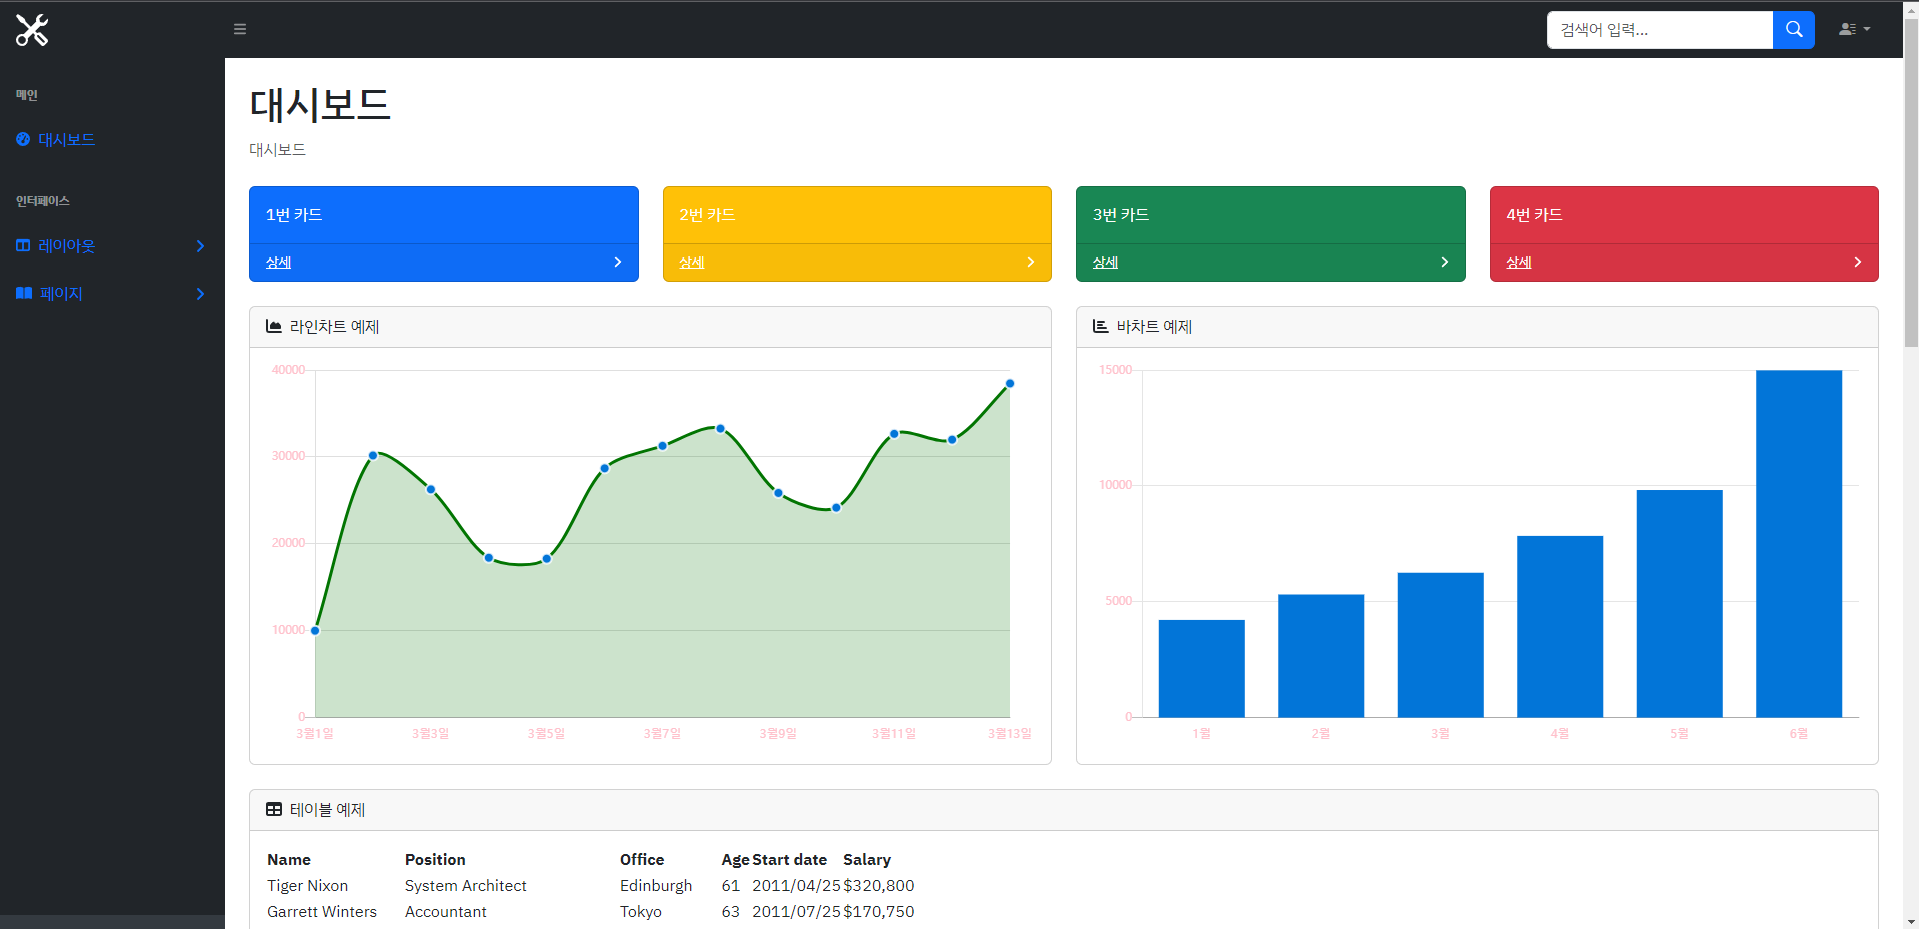
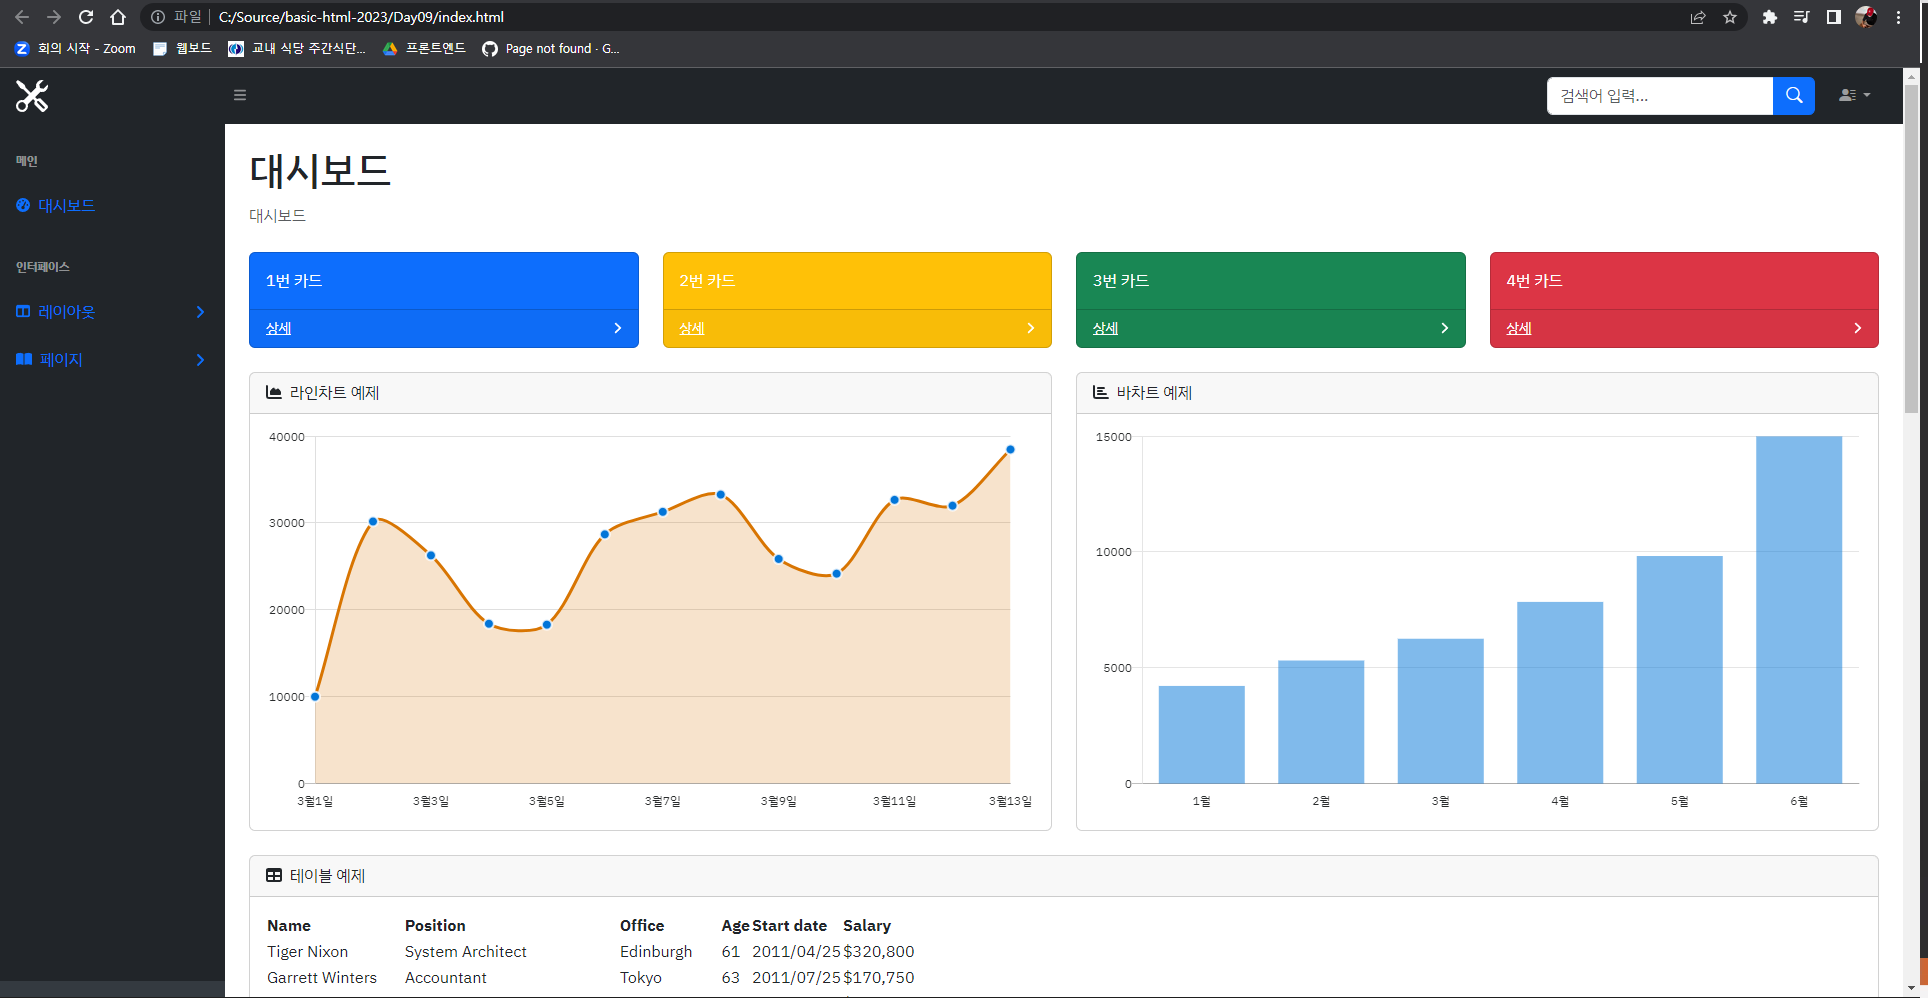
2023.04.03

diff --git a/Day09/css/main.css b/Day09/css/main.css
@@ -10,7 +10,7 @@ body {
     height: 100vh;
 }
 
-hr{
+hr {
     margin: 1rem 0;
     color: inherit;
     border: 0;
@@ -44,26 +44,27 @@ p {
     z-index: 1001;
 }
 
-/* 전체 레이아웃*/
-#layoutTotal{
+/* 전체 레이아웃 */
+#layoutTotal {
     display: flex;
 }
-#layoutTotal #layoutLeftSide{
+
+#layoutTotal #layoutLeftSide {
     flex-basis: 225px;
-    flex-shrink: 0; /* 사라졌다가 나오는 기능*/
+    flex-shrink: 0;
     transition: transform 0.15s ease-in-out;
     z-index: 1000;
-    /*transform: translateX(-225px);*/ /*화면 왼쪽으로 사라지게 하기 위함*/
+    /* transform: translateX(-225px); /*화면 왼쪽으로 사라지게 하기 위함 */
 }
 
-#layoutTotal #layoutContent{
+#layoutTotal #layoutContent {
     position: relative;
     display: flex;
     flex-direction: column;
     justify-content: space-between;
     min-width: 0;
     flex-grow: 1;
-    min-height: 100vh; /* calc(100vh-56px) */
+    min-height: 100vh; /* calc(100vh - 56px) */
     /* margin-left: -225px; */
 }
 /* 전체 레이아웃 끝 */
@@ -81,33 +82,34 @@ p {
 }
 
 .sb-topnav #sidebarToggle {
-    color: rgba(255, 255, 255, 0.5);
+    color: rgba(255,255,255,0.5);
 }
 
 /* 왼쪽메뉴 */
-.sb-sidenav{
-    display: flex; /* d-flex */
+.sb-sidenav {
+    display: flex;
     flex-direction: column;
     height: 100vh;
     flex-wrap: nowrap;
 }
+
 .sb-sidenav .sb-sidenav-menu {
     flex-grow: 1;
 }
 
-.sb-sidenav .sb-sidenav-menu .nav{
+.sb-sidenav .sb-sidenav-menu .nav {
     flex-direction: column;
     flex-wrap: nowrap;
 }
 
 .sb-sidenav .sb-sidenav-menu .nav .sb-sidenav-menu-heading {
-    padding: 1.75rem 1rem 0.75rem;
+    padding:  1.75rem 1rem 0.75rem;
     font-size: 0.75rem;
     font-weight: bold;
-    text-transform: uppercase; 
+    text-transform: uppercase;
 }
 
-.sb-sidenav .sb-sidenav-menu .nav .nav-link{
+.sb-sidenav .sb-sidenav-menu .nav .nav-link {
     display: flex;
     align-items: center;
     padding-top: 0.75rem;
@@ -115,30 +117,32 @@ p {
     position: relative;
 }
 
-.sb-sidenav .sb-sidenav-menu .nav .nav-link .sb-nav-link-icon{
+.sb-sidenav .sb-sidenav-menu .nav .nav-link .sb-nav-link-icon {
     font-size: 0.9rem;
     padding-right: 0.5rem;
 }
-.sb-sidenav .sb-sidenav-menu .nav .nav-link .sb-sidenav-collapse-arrow{
+
+.sb-sidenav .sb-sidenav-menu .nav .nav-link .sb-sidenav-collapse-arrow {
     display: inline-block;
     margin-left: auto;
     transition: transform 0.15s ease;
 }
 
-.sb-sidenav .sb-sidenav-menu .nav .nav-link.collapsed .sb-sidenav-collapse-arrow{
+.sb-sidenav .sb-sidenav-menu .nav .nav-link.collapsed .sb-sidenav-collapse-arrow {
     transform: rotate(-90deg);
 }
 
-.sb-sidenav .sb-sidenav-footer{
+.sb-sidenav .sb-sidenav-footer {
     padding: 0.75rem;
     flex-shrink: 0;
 }
 
+
 .sb-sidenav-dark {
     background-color: #212529;
-    color: rgba(255, 255, 255, 0.5);
+    color: rgba(255,255,255,0.5);
 }
 
-.sb-sidenav-dark .sb-sidenav-footer{
-    background-color: #343a40;
+.sb-sidenav-dark .sb-sidenav-footer {
+    background-color: #343a40;;
 }

diff --git a/Day09/js/chart-bar-demo.js b/Day09/js/chart-bar-demo.js
@@ -1,9 +1,7 @@
 // Set new default font family and font color to mimic Bootstrap's default styling
-// Chart.defaults.global.defaultFontFamily = '-apple-system,system-ui,BlinkMacSystemFont,"Segoe UI",Roboto,"Helvetica Neue",Arial,sans-serif';
-Chart.defaults.global.defaultFontFamily = '-apple-system,system-ui,BlinkMacSystemFont,"Segoe UI",Roboto,"Helvetica Neue",Arial,sans-serif';
-
-Chart.defaults.global.defaultFontColor = 'pink';
-
+//Chart.defaults.global.defaultFontFamily = '-apple-system,system-ui,BlinkMacSystemFont,"Segoe UI",Roboto,"Helvetica Neue",Arial,sans-serif';
+Chart.defaults.global.defaultFontFamily = '"IBM Plex Sans KR", sans-serif';
+Chart.defaults.global.defaultFontColor = '#292b2c';
 
 // Bar Chart Example
 var ctx = document.getElementById("myBarChart");
@@ -13,7 +11,7 @@ var myLineChart = new Chart(ctx, {
     labels: ["1월", "2월", "3월", "4월", "5월", "6월"],
     datasets: [{
       label: "Revenue",
-      backgroundColor: "rgba(2,117,216,1)",
+      backgroundColor: "rgba(2,117,216,0.5)",
       borderColor: "rgba(2,117,216,1)",
       data: [4215, 5312, 6251, 7841, 9821, 14984],
     }],

diff --git a/Day09/js/chart-area-demo.js b/Day09/js/chart-area-demo.js
@@ -1,7 +1,6 @@
 // Set new default font family and font color to mimic Bootstrap's default styling
 // Chart.defaults.global.defaultFontFamily = '-apple-system,system-ui,BlinkMacSystemFont,"Segoe UI",Roboto,"Helvetica Neue",Arial,sans-serif';
-Chart.defaults.global.defaultFontFamily = '"IBM Plex Sans KR, sans-serif"';
-
+Chart.defaults.global.defaultFontFamily = '"IBM Plex Sans KR", sans-serif';
 Chart.defaults.global.defaultFontColor = '#292b2c';
 
 // Area Chart Example
@@ -13,8 +12,8 @@ var myLineChart = new Chart(ctx, {
     datasets: [{
       label: "Sessions",
       lineTension: 0.3,
-      backgroundColor: "rgba(2,117,2,0.2)",
-      borderColor: "rgba(2,117,2,1)",
+      backgroundColor: "rgba(216,117,2,0.2)",
+      borderColor: "rgba(216,117,2,1)",
       pointRadius: 5,
       pointBackgroundColor: "rgba(2,117,216,1)",
       pointBorderColor: "rgba(255,255,255,0.8)",

diff --git a/README.md b/README.md
@@ -95,3 +95,14 @@ SB Admin Page 중간단계
 <img src= "https://raw.githubusercontent.com/tjdrnr1217/basic-html-2023/main/image/zz.png" width="300">
 
 
+## 10일차
+- 프론트엔드 실습
+    - SB Admin Page 마무리
+
+## 11일차
+- 프론트엔드 실습
+    - 
+
+## 12일차
+- 프론트엔드 실습
+    - 
